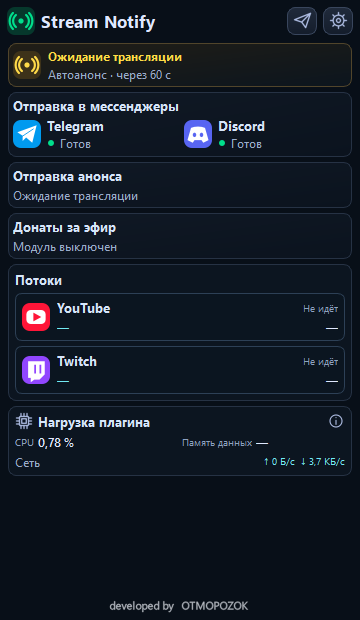
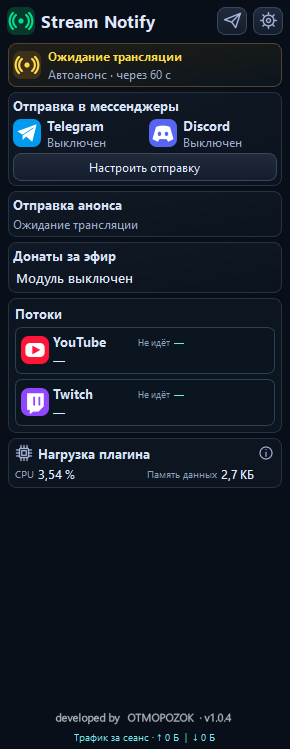
Refresh 1.0.4 screenshots and simplify RU/EN README

diff --git a/README.md b/README.md
@@ -1,195 +1,37 @@
-<div align="center">
-<h1>Stream Notify</h1>
-<p><strong>Запускаете эфир — зрители получают ссылки.</strong></p>
-<p><strong>Русский</strong> · <a href="docs/README_EN.md">English</a></p>
-<p><img alt="OBS 33.0.0" src="https://img.shields.io/badge/OBS-33.0.0-302E31"> <img alt="Windows x64" src="https://img.shields.io/badge/Windows-x64-0078D4"> <img alt="Нативный Qt" src="https://img.shields.io/badge/UI-native_Qt-00B88C"></p>
-</div>
+# Stream Notify
 
+**Анонсы эфира и донатов в Telegram и Discord прямо из OBS.** Работает локально, без нашего сервера. [English](docs/README_EN.md).
 
-Нативный плагин для **OBS Studio 33.0.0 x64**: анонсы трансляций и уведомления о донатах с сервисов **DonationAlerts** и **DonatePay** с отправкой в **Telegram и Discord**. Работает внутри OBS, включая сетевые выходы **Aitum Multistream**.
-
-[**Скачать последнюю сборку для Windows**](https://github.com/DIMI0007/stream-notify/actions/workflows/build-test-windows.yml) ·
-[Установить или обновить](docs/TEST_WINDOWS_RU.md) ·
-[Все сборки](https://github.com/DIMI0007/stream-notify/actions/workflows/build-test-windows.yml)
-
-## Статус готовности
-
-| Возможность | Что подтверждено |
+| Главная | Во время эфира |
 | --- | --- |
-| Автоанонс в Telegram и Discord | Пользователь проверил доставку при настоящем эфире на восстановленной предыдущей сборке. |
-| Статистика завершённых потоков и версия 1.0.1 | Сборка 1.0.1 прошла CI; загрузку и новые возможности ещё нужно проверить в OBS. |
-| Вход в DonationAlerts через браузер | Пользователь подтвердил вход и статус «Подключён» в OBS 1.0.1 после подписки Centrifugo. Получение нового доната ещё не проверено. |
-| DonatePay | Официальный HTTP API отвечает с правильным ключом. Подключение и подписка WebSocket проверены отдельно; приём нового реального доната ещё не подтверждён. |
-| Подпись сборок | Заявка SignPath получена сервисом, одобрения пока нет. Текущие артефакты CI не подписаны. |
+| ![Главная панель Stream Notify](docs/screenshots/home.png) | ![LIVE, битрейт и графики Stream Notify](docs/screenshots/monitoring.png) |
 
-**Тестовый архив может блокироваться Windows Smart App Control.** Успешная сборка не заменяет проверку загрузки в OBS и получение настоящего события. Версия и commit новых пакетов указаны в `BUILD_INFO.json`.
+*Снимки интерфейса 1.0.4 сделаны в изолированном тестовом окружении. Показанные подключения и потоки — демонстрационные данные.*
 
-## Чем полезен стримеру
+## Что проверено
 
-- **Меньше рутины перед эфиром.** Не нужно каждый раз вручную копировать ссылки в Telegram и Discord: настройте текст и получателей один раз.
-- **Удобно для мультистрима.** Запуск второго выхода не создаёт повторный анонс. Плагин учитывает общее состояние потоков OBS/Aitum, а не только кнопку «Начать трансляцию».
-- **Есть время передумать.** Выберите задержку 60, 90 или 120 секунд. До отправки текущий анонс можно отменить. На последних 10 секундах часы и цифры плавно пульсируют.
-- **Вы управляете рассылкой.** Включайте Telegram и Discord независимо. В Discord можно отдельно разрешить @everyone — тег появится в конце сообщения; по умолчанию упоминание выключено.
-- **Сообщение в любой момент.** Иконка самолётика вверху открывает отдельную страницу: введите текст или ссылку, выберите Telegram и/или Discord, при необходимости включите тег `@everyone` и отправьте без запуска эфира. Кнопка «Назад» возвращает на основное.
-- **Донаты напоминают об эфире.** Сообщение о поддержке становится повторным анонсом: показывает активность на стриме и приглашает зрителей присоединиться. Вы выбираете минимальную сумму, текст и получателей.
-- **Понятно, какой поток проседает.** Twitch и YouTube показываются отдельно: LIVE, фактический битрейт, график последних 30 минут и переданные ГБ. Красная отметка сохраняется до пяти минут после проблемы.
-- **Всё под рукой в OBS.** Компактный док, русский и английский интерфейс, ручные тесты, предпросмотр и результат доставки для каждого канала.
+- Автоматический анонс при реальном эфире доставлен и в Telegram, и в Discord.
+- Вход в DonationAlerts через браузер подтверждён. Повтор ранее полученного доната отправил уведомления в оба места; новый реальный платёж после подключения ещё не проверен.
+- Ключ DonatePay принят API, соединение установлено. Доставка нового реального доната ещё не проверена.
+- Версия 1.0.4 собрана и прошла автоматические тесты интерфейса. График битрейта и плашка LIVE требуют проверки на настоящем эфире в OBS.
 
-### Донат — повод снова пригласить зрителей
+## Возможности
 
-Первый анонс сообщает о начале трансляции. Уведомление о донате напоминает об уже идущем эфире через событие: кто-то поддержал стрим, оставил сообщение — на трансляции есть активность, к которой можно присоединиться.
+- Один анонс при запуске трансляции, в том числе при нескольких выходах OBS/Aitum.
+- Отдельные настройки Telegram и Discord, ручная отправка и тест доставки.
+- Уведомления о донатах DonationAlerts и DonatePay с настраиваемыми порогами и текстом.
+- Отдельная карточка каждого потока: LIVE, битрейт, график последних **30 минут** и переданные ГБ. Данные завершённого потока остаются видны до следующего запуска выхода.
+- Локальное хранение настроек; секреты защищены средствами Windows.
 
-Добавьте в шаблон ссылку на эфир и приглашение. Такой повторный анонс может заинтересовать тех, кто пропустил старт или отложил просмотр, вернуть их на стрим и помочь увеличить просмотры.
+## Установка
 
-> 💰 Зритель поддержал стрим на 500 RUB!  
-> «Спасибо за эфир!»  
-> На стриме уже идёт общение — присоединяйтесь: ссылка на трансляцию
+1. Закройте OBS.
+2. [Скачайте архив последней успешной сборки](https://github.com/DIMI0007/stream-notify/actions/workflows/build-test-windows.yml).
+3. Скопируйте всю папку `stream-notify` из архива в `C:\ProgramData\obs-studio\plugins\`. При обновлении замените папку целиком.
+4. Запустите OBS, откройте **Stream Notify**, настройте получателей и нажмите тестовые кнопки.
 
-Вы сами решаете, какие донаты становятся поводом для анонса: задайте три уровня сумм, свои тексты для каждого уровня и получателей в Telegram и Discord. Пороги задаются в рублях; поддерживаемые валюты пересчитываются по сохранённому справочнику.
+Поддерживаемая тестовая конфигурация: **OBS 33.0.0, Windows x64**. Архив пока не подписан цифровой подписью. Версия и ревизия исходников указаны в `BUILD_INFO.json`.
 
-### Нативный интерфейс
+[Лицензия GPL v2](LICENSE) · [Конфиденциальность](PRIVACY.md) · [Подробная инструкция по донатам](README_DONATIONS_RU.md)
 
-Плагин использует виджеты Qt и рисованные значки. Для его интерфейса не нужны браузерная страница, Python или отдельный сервер; постоянных декоративных анимаций нет.
-Пульсация таймера работает только на последних 10 секундах, пока панель видима, и останавливается при смене экрана. Логотипы сервисов встроены в плагин и отображаются без загрузки из интернета.
-Настройки хранятся на вашем компьютере, секреты защищаются Windows DPAPI.
-Компактный режим включён по умолчанию, а док можно расположить рядом с чатом и управлением трансляцией.
-Самолётик и шестерёнка находятся в верхней строке. Шестерёнка открывает разделы «Связь», «Сообщение», «Интерфейс» и «Донаты»; повторное нажатие возвращает на основное. Подключения, ручные тесты и ссылки на эфир находятся в «Настройки → Связь». На первом запуске кнопка «Настроить отправку» ведёт к подключению мессенджеров. Рядом с готовыми каналами зелёная точка и надпись «Готов» ненадолго приглушаются примерно раз в три секунды.
-«Готов» означает, что данные подключения заполнены; кнопка «Тест» проверяет реальную доставку.
-
-### Потоки и ресурсы на главной
-
-Главная — короткая сводка: статус эфира, готовность Telegram/Discord, был ли отправлен анонс, донаты за эфир, состояние и битрейт каждого выхода. Ссылки и поля ввода оставлены в настройках. Показатели обновляются раз в две секунды; настройки продолжают сохраняться автоматически, а внизу остаётся только авторская подпись.
-
-В небольшом блоке «Нагрузка плагина» показаны CPU, память данных и сеть. CPU измеряет отмеченные синхронные участки кода, память данных — вместимость учитываемых строк и буферов, сеть — данные HTTP/WebSocket уведомлений. Это не счётчики общей нагрузки OBS и не полная RAM DLL/Qt.
-
-[Правила просадок, состав измерений и их границы](docs/MONITORING_RU.md).
-
-## Как выглядит
-
-Нажмите на изображение, чтобы открыть полный размер.
-
-<table>
-<tr>
-<td align="center" valign="top"><b>Компактная главная</b><br><a href="docs/screenshots/home.png"><img src="docs/screenshots/home.png" width="300" alt="Основная панель — Stream Notify"></a><br>Статус эфира, мессенджеры, отправка, донаты и потоки — в одной сводке.</td>
-<td align="center" valign="top"><b>Перед отправкой</b><br><a href="docs/screenshots/countdown.png"><img src="docs/screenshots/countdown.png" width="300" alt="Перед отправкой — Stream Notify"></a><br>Обратный отсчёт и отмена текущего анонса.</td>
-</tr>
-
-</table>
-
-<details>
-<summary><b>Подключения, ручное сообщение, редактор анонса и результат отправки</b></summary>
-
-<table>
-<tr>
-<td align="center" valign="top"><b>Telegram и Discord</b><br><a href="docs/screenshots/connections.png"><img src="docs/screenshots/connections.png" width="300" alt="Telegram и Discord — Stream Notify"></a><br>Подключения, ручные тесты и переключатель @everyone.</td>
-<td align="center" valign="top"><b>Текст анонса</b><br><a href="docs/screenshots/message.png"><img src="docs/screenshots/message.png" width="300" alt="Текст анонса — Stream Notify"></a><br>Редактор сообщения, задержка и предпросмотр.</td>
-</tr>
-<tr>
-<td align="center" valign="top"><b>Ручное сообщение</b><br><a href="docs/screenshots/manual-message.png"><img src="docs/screenshots/manual-message.png" width="300" alt="Ручное сообщение в Telegram и Discord — Stream Notify"></a><br>Отдельная страница с текстом, выбором каналов и переключателем @everyone.</td>
-<td align="center" valign="top"><b>Результат доставки</b><br><a href="docs/screenshots/result.png"><img src="docs/screenshots/result.png" width="300" alt="Результат доставки — Stream Notify"></a><br>Отдельный статус каждого канала и возврат к основной панели.</td>
-</tr>
-</table>
-
-</details>
-
-<details>
-<summary><b>Донаты: четыре отдельные подвкладки</b></summary>
-
-Длинная страница разделена на **«Сервисы» · «Отправка» · «Суммы» · «Текст»**.
-Навигация остаётся видимой при прокрутке; введённые значения не теряются при переходах.
-Предпросмотр и ручной тест учитывают настроенные пороги.
-
-<table>
-<tr>
-<td align="center" valign="top"><b>Сервисы</b><br><a href="docs/screenshots/donations-services.png"><img src="docs/screenshots/donations-services.png" width="300" alt="Сервисы — Stream Notify"></a><br>DonationAlerts и DonatePay, ключи и проверка подключения.</td>
-<td align="center" valign="top"><b>Отправка</b><br><a href="docs/screenshots/donations-delivery.png"><img src="docs/screenshots/donations-delivery.png" width="300" alt="Отправка — Stream Notify"></a><br>Кому отправлять и учитывать ли только активный эфир.</td>
-</tr>
-<tr>
-<td align="center" valign="top"><b>Суммы</b><br><a href="docs/screenshots/donations-amounts.png"><img src="docs/screenshots/donations-amounts.png" width="300" alt="Суммы — Stream Notify"></a><br>Три рублёвых порога и справочник курсов.</td>
-<td align="center" valign="top"><b>Текст</b><br><a href="docs/screenshots/donations-text.png"><img src="docs/screenshots/donations-text.png" width="300" alt="Текст — Stream Notify"></a><br>Шаблоны, предпросмотр, ручной тест и журнал.</td>
-</tr>
-</table>
-
-</details>
-
-Снимки получены из реально запущенного Qt-интерфейса. Главная обновлена по последней сборке. В окне используются тестовые выходы и демонстрационные адреса, без настоящих ключей и webhook. Показатели потоков и донаты на снимках заданы тестовыми событиями для демонстрации интерфейса; значения ресурсов измерены в тестовом окне и не являются оценкой нагрузки на вашем ПК.
-Экран успешной доставки показан на демонстрационных данных.
-[Полный набор снимков для разных размеров дока](https://github.com/DIMI0007/stream-notify/actions/runs/40171551955/artifacts/12590317512).
-
-
-<details>
-<summary><b>Первый запуск: с чего начать</b></summary>
-
-На главной — только состояния и короткая статистика. «Настроить отправку» открывает подключения; ссылки YouTube/Twitch редактируются в «Настройки → Связь».
-
-<a href="docs/screenshots/home-setup.png"><img src="docs/screenshots/home-setup.png" width="300" alt="Первый запуск Stream Notify: короткая сводка и настройка отправки"></a>
-
-</details>
-
-## Установка за несколько шагов
-
-1. Скачайте ZIP и полностью закройте OBS.
-2. Скопируйте **папку stream-notify целиком**, включая `bin` и `data`, в:
-   `C:\ProgramData\obs-studio\plugins\`.
-3. Запустите OBS → **Док-панели → Stream Notify**.
-4. В **Настройки → Связь** укажите Telegram-бота/канал и Discord webhook, включите нужные каналы и выполните ручные тесты.
-5. Настройте ссылки и текст анонса — затем начинайте эфир через OBS или Aitum.
-
-Правильный путь:
-`C:\ProgramData\obs-studio\plugins\stream-notify\bin\64bit\stream-notify.dll`.
-
-При обновлении заменяется папка плагина; сохранённые настройки остаются отдельно.
-Если компактный режим раньше выключили, включите его вручную в разделе «Интерфейс».
-
-[Подробная инструкция и диагностика](docs/TEST_WINDOWS_RU.md).
-
-## Донатные сервисы и статус версии
-
-Это **тестовая Windows DLL**, установщика EXE пока нет.
-
-| Часть | Текущий статус |
-| --- | --- |
-| Telegram и Discord | Пользователь подтвердил успешные тесты анонсов и донатных сообщений |
-| OBS / Aitum | Запуск реального стрима проверен пользователем. Дополнительно в CI проверены моделируемые сценарии старта, остановки и защиты от дублей |
-| DonationAlerts | Real-time адаптер реализован; получение реальных событий требует проверки на аккаунте |
-| DonatePay | HTTP-метод и поле валюты проверены на аккаунте; приём новых реальных событий ещё требует проверки |
-
-На главной учитываются реальные события донатов за текущий или последний эфир, в том числе ниже порога анонса. Ручные тесты и повторы исключены. Эта сводка сбрасывается при перезапуске OBS; журнал доставки сохраняется.
-
-Ручной тест донатного сообщения проверяет отправку, а не получение нового доната от сервиса.
-Все ключи вводятся только локально в плагине. Ключи и webhook не нужны для CI.
-
-## Документация и проверки
-
-- [Установка, обновление и тестирование](docs/TEST_WINDOWS_RU.md)
-- [Модуль донатов и ограничения интеграций](README_DONATIONS_RU.md)
-- [Потоки OBS/Aitum и ресурсы плагина](docs/MONITORING_RU.md)
-- [Рублёвые пороги и файл курсов](docs/CURRENCY_RU.md)
-- [Что проверено](tests/VALIDATION.txt)
-- [Журнал актуальной сборки](https://github.com/DIMI0007/stream-notify/actions/runs/40237374529)
-- [Архив исходного ТЗ](docs/Stream_Notify_1_0_TZ.md)
-
-CI проверяет сборку, логику валют, Telegram-ссылки, Discord @everyone, навигацию, сохранность значений и неизменность размера окна при переключении донатных вкладок.
-Интерфейс проверяется при размерах 290×900, 420×1050 и 360×620, а также при масштабе 200%; HTTPS — из готового пакета, без отправки сообщений реальным получателям.
-
-## Поддержать разработку
-
-Если Stream Notify пригодился вашим трансляциям, поддержать проект можно добровольным донатом:
-
-- [DonationAlerts](https://www.donationalerts.com/r/otmopozok)
-- [DonatePay](https://donatepay.ru/don/OTMOPOZOK)
-
-Спасибо за поддержку!
-
-developed by [OTMOPOZOK](https://www.youtube.com/channel/UCTAKYR3T2Ud8zZgNShgQfyw/).
-
-## Code signing policy
-
-Подпись Windows-сборок пока не настроена. Заявка на бесплатную подпись через SignPath отправлена и получена сервисом; одобрение ещё не получено. Текущие артефакты CI не подписаны и могут блокироваться Windows Smart App Control.
-
-[Правила подписи — English](docs/CODE_SIGNING.md) · [Конфиденциальность — English](PRIVACY.md).
-
-## Лицензия
-
-Собственный код Stream Notify распространяется под GNU General Public License version 2 (GPL-2.0-only); полный текст — [LICENSE](LICENSE). Исходная лицензия шаблона OBS сохранена в [LICENSE.obs-plugintemplate](LICENSE.obs-plugintemplate). Сторонние компоненты сохраняют свои лицензии и уведомления.
-
+Разработчик: [OTMOPOZOK](https://www.youtube.com/channel/UCTAKYR3T2Ud8zZgNShgQfyw/).

diff --git a/docs/README_EN.md b/docs/README_EN.md
@@ -1,90 +1,37 @@
-<div align="center">
-<h1>Stream Notify</h1>
-<p><strong>Start your stream. Let your viewers know.</strong></p>
-<p><a href="../README.md">Русский</a> · <strong>English</strong></p>
-<p><img alt="OBS 33.0.0" src="https://img.shields.io/badge/OBS-33.0.0-302E31"> <img alt="Windows x64" src="https://img.shields.io/badge/Windows-x64-0078D4"> <img alt="Native Qt" src="https://img.shields.io/badge/UI-native_Qt-00B88C"></p>
-</div>
+# Stream Notify
 
-Stream Notify is a native OBS Studio dock for stream announcements and donation notifications sent directly to your own Telegram and Discord destinations. It tracks OBS and Aitum network outputs and runs locally without a project-operated relay server.
+**OBS stream and donation announcements for Telegram and Discord.** It runs locally without a project-operated server. [Русский](../README.md).
 
-[Windows test builds](https://github.com/DIMI0007/stream-notify/actions/workflows/build-test-windows.yml) · [Russian installation guide](TEST_WINDOWS_RU.md) · [Report an issue](https://github.com/DIMI0007/stream-notify/issues)
-
-## Current status
-
-| Area | Status |
+| Home | During a broadcast |
 | --- | --- |
-| Stream-start announcements | The user confirmed delivery to both Telegram and Discord during a real stream using the restored previous build. |
-| Manual delivery tests | Confirmed by the user; they verify delivery, not donation ingestion. |
-| New output-history fixes and version 1.0.1 | Version 1.0.1 passed CI; OBS runtime validation of the new behavior is pending. |
-| DonationAlerts browser sign-in | User confirmed browser consent and Connected status in OBS 1.0.1 after Centrifugo subscription acknowledgement. Receipt of a new real donation is still pending. |
-| DonatePay HTTP API | Current official method and response schema verified. The incorrect local key was replaced by the user. A new real donation has not yet been validated end to end. |
-| DonatePay WebSocket | Account authentication and subscription verified in a separate read-only probe. Incoming real donation mapping and recovery remain unverified; the plugin keeps its existing HTTP adapter. |
-| Code signing | SignPath application received; approval pending. Current CI artifacts are unsigned. |
+| ![Stream Notify home](screenshots/home.png) | ![Stream Notify LIVE status and bitrate graphs](screenshots/monitoring.png) |
 
-Unsigned builds can be blocked by Windows Smart App Control. A successful build is not proof that Windows will trust the package or that a new feature has been validated against a real account.
+*Version 1.0.4 screenshots come from an isolated UI test host. Connections and streams shown are demonstration data.*
 
-## What it does
+## Verified status
 
-- Announces a stream once per session, even with concurrent Twitch and YouTube outputs.
-- Supports a configurable countdown and cancellation before dispatch.
-- Sends Telegram and Discord requests independently and reports each delivery result.
-- Offers manual messages and optional Discord @everyone mentions.
-- Displays per-output bitrate, transferred data and lightweight local resource counters.
-- Routes eligible donations through the existing notification destinations and templates.
-- Keeps credentials locally with Windows DPAPI protection.
+- Automatic announcements reached both Telegram and Discord during a real broadcast.
+- DonationAlerts browser sign-in was confirmed. Replaying an earlier donation delivered notifications to both destinations; a new payment after connection has not yet been checked.
+- DonatePay accepted the account API key and connected. Delivery from a new real donation has not yet been checked.
+- Version 1.0.4 built and passed automated UI checks. LIVE status and bitrate graphs still need a real OBS broadcast check.
 
-## Interface
+## Features
 
-<p align="center"><img src="screenshots/home.png" width="320" alt="Stream Notify native OBS dock"></p>
+- One announcement per stream session, including multiple OBS/Aitum outputs.
+- Separate Telegram and Discord destinations, manual messages, and delivery tests.
+- DonationAlerts and DonatePay notifications with configurable thresholds and text.
+- A card per output with LIVE status, bitrate, a **30-minute** graph and transferred GB. Stopped-output totals remain visible until the next start.
+- Local settings with Windows-protected secrets.
 
-The image shows the existing interface. New builds identify their version in the footer and About section. CI UI previews use an isolated test host and are not evidence of real service connectivity.
+## Install
 
-## Install or update
+1. Close OBS.
+2. [Download the artifact from the latest successful build](https://github.com/DIMI0007/stream-notify/actions/workflows/build-test-windows.yml).
+3. Copy the entire `stream-notify` directory to `C:\ProgramData\obs-studio\plugins\`. Replace the complete directory when updating.
+4. Start OBS, open **Stream Notify**, configure destinations and use the test buttons.
 
-Supported test configuration: **Windows x64, OBS 33.0.0, Qt 6.11.1**.
+Test target: **OBS 33.0.0 on Windows x64**. The archive is currently unsigned. `BUILD_INFO.json` contains the version and source revision.
 
-1. Close OBS completely.
-2. Download the artifact from a successful workflow run and extract it.
-3. Copy the complete `stream-notify` directory to `C:\ProgramData\obs-studio\plugins\`.
-4. Replace the old plugin directory completely. Keep the Qt WebSockets and TLS files in their packaged locations.
-5. Start OBS and enable the Stream Notify dock.
-
-Settings are stored separately under the user's OBS configuration. Do not send settings files or credentials to support. To uninstall, close OBS and remove only the installed `stream-notify` plugin directory; local settings remain until you choose to remove them.
-
-## Telegram and Discord
-
-Configure your Telegram bot token and destination locally. Give the bot permission to post to the channel. For Discord, create a webhook in the target channel and paste its URL locally. Use each channel's test button before testing automatic announcements.
-
-Discord @everyone is optional and off by default. Announcements, donations and manual messages follow the same opt-in setting.
-
-## Donation services
-
-DonationAlerts uses its official OAuth API and Centrifugo WebSocket. The app requests `oauth-user-show` and `oauth-donation-subscribe`. The browser sign-in returns to a temporary loopback listener on `127.0.0.1:38561`; no Client Secret is embedded. A widget token is not an API OAuth access token.
-
-DonatePay uses the API key from the official account API page. The current plugin polls transactions no faster than every 30 seconds and backs off on errors. It never assumes RUB when a transaction lacks a currency. An HTTP 200 response containing `status: error` is an API failure, not a successful connection.
-
-The default RUB levels are 100 / 500 / 2000. User-defined thresholds remain in force. Explicit saved thresholds for another currency take priority; otherwise the existing RUB conversion applies.
-
-Persistent donation IDs prevent replay. Indeterminate deliveries are not silently resent. Actual donation receipt, destination delivery, network recovery and restart behavior still require end-to-end account tests.
-
-## Diagnostics and documentation
-
-Record the version/build ID, the safe error text and whether the failure occurred during sign-in, subscription, receipt or delivery. Never post real tokens, webhook URLs or unredacted configuration files.
-
-- [Donation integration details (Russian)](../README_DONATIONS_RU.md)
-- [Monitoring and resource counters (Russian)](MONITORING_RU.md)
-- [Currency rules (Russian)](CURRENCY_RU.md)
-- [Validation record](../tests/VALIDATION.txt)
-- [Privacy policy](../PRIVACY.md)
-- [Code signing policy](CODE_SIGNING.md)
-
-## Support development
-
-Optional support: [DonationAlerts](https://www.donationalerts.com/r/otmopozok) · [DonatePay](https://donatepay.ru/don/OTMOPOZOK).
-
-## License
-
-The project's own code is licensed under [GNU GPL version 2](../LICENSE). Original template and dependency notices are retained.
+[GPL v2 license](../LICENSE) · [Privacy](../PRIVACY.md) · [Donation guide in Russian](../README_DONATIONS_RU.md)
 
 Developed by [OTMOPOZOK](https://www.youtube.com/channel/UCTAKYR3T2Ud8zZgNShgQfyw/).
-
